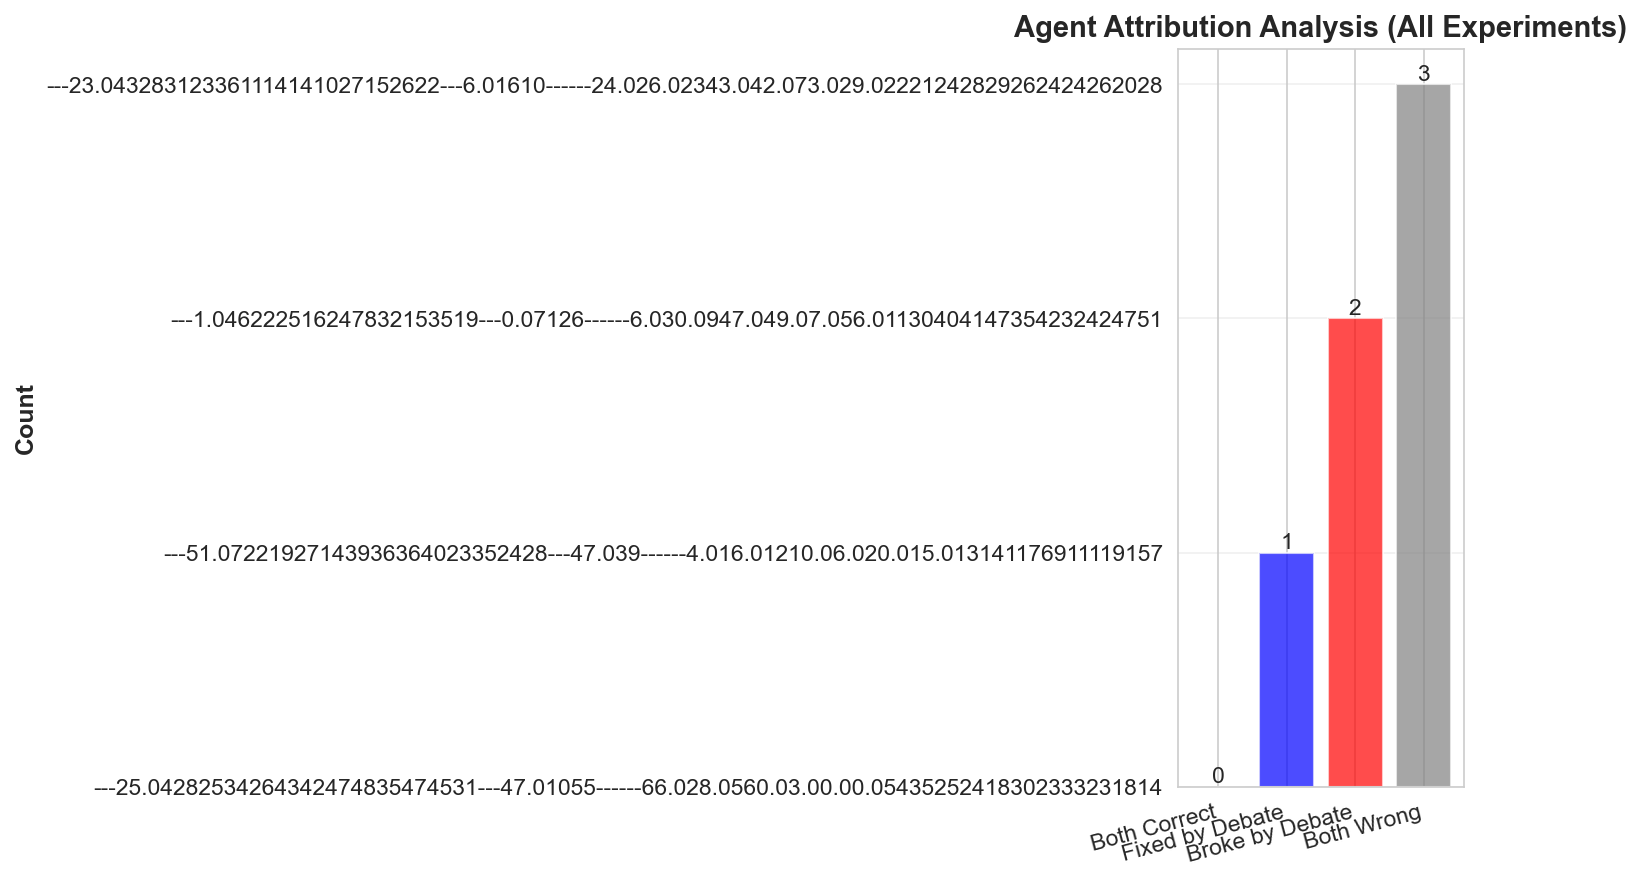
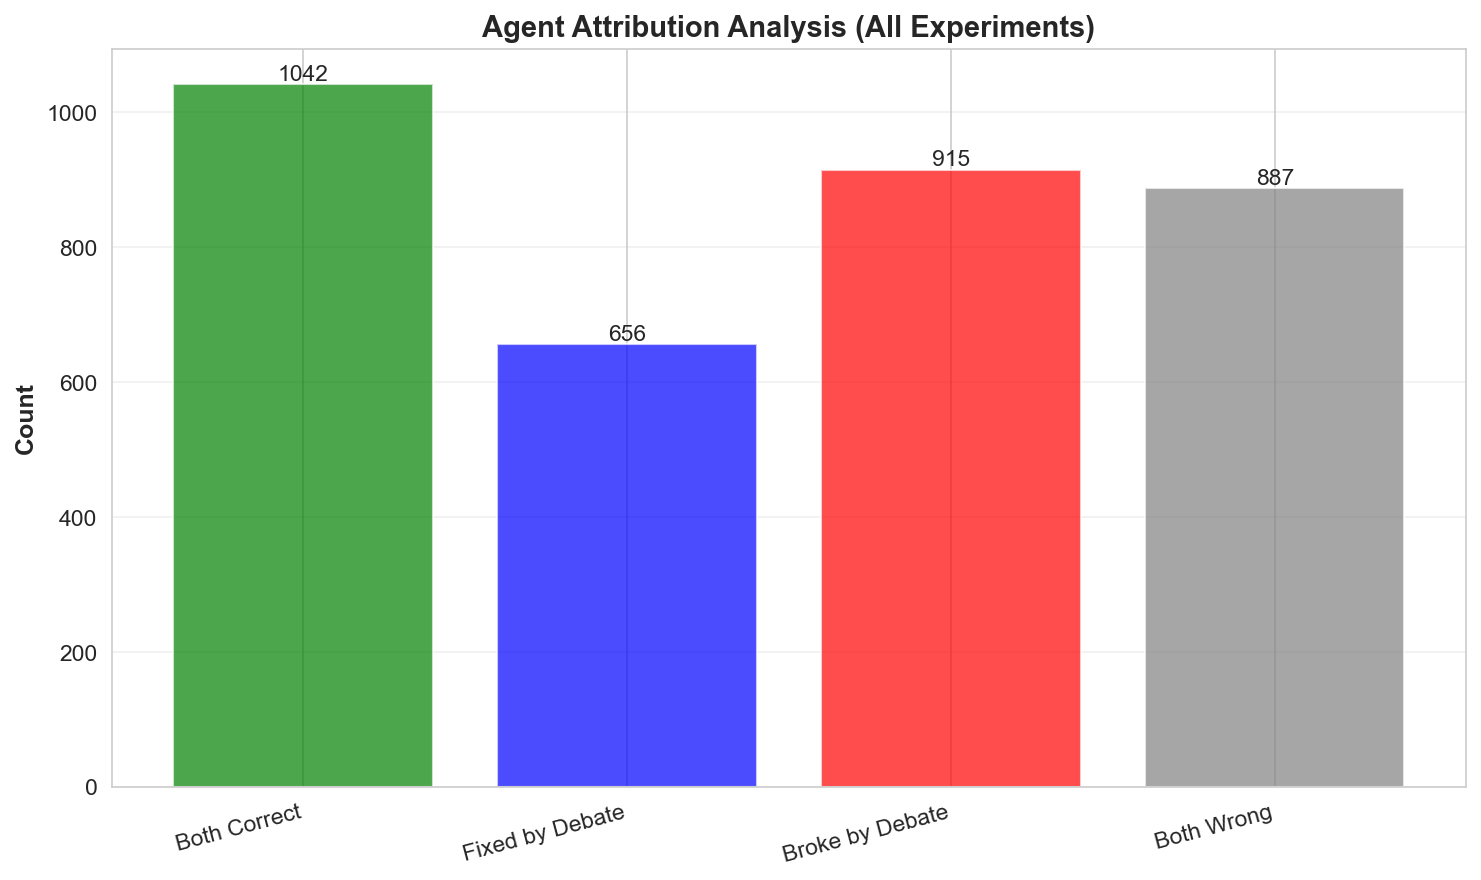
Update agent attribution chart

diff --git a/analysis/scripts/generate_complete_analysis.py b/analysis/scripts/generate_complete_analysis.py
@@ -661,11 +661,11 @@ class ComprehensiveAnalysisGenerator:
         if len(attr_df) == 0:
             return
 
-        # Calculate totals
-        both_correct = attr_df['Both Correct'].sum()
-        fixed = attr_df['Fixed by Debate'].sum()
-        broke = attr_df['Broke by Debate'].sum()
-        both_wrong = attr_df['Both Wrong'].sum()
+        # Calculate totals (convert to numeric first to avoid string concatenation)
+        both_correct = pd.to_numeric(attr_df['Both Correct'], errors='coerce').sum()
+        fixed = pd.to_numeric(attr_df['Fixed by Debate'], errors='coerce').sum()
+        broke = pd.to_numeric(attr_df['Broke by Debate'], errors='coerce').sum()
+        both_wrong = pd.to_numeric(attr_df['Both Wrong'], errors='coerce').sum()
 
         fig, ax = plt.subplots(figsize=(10, 6))
 
